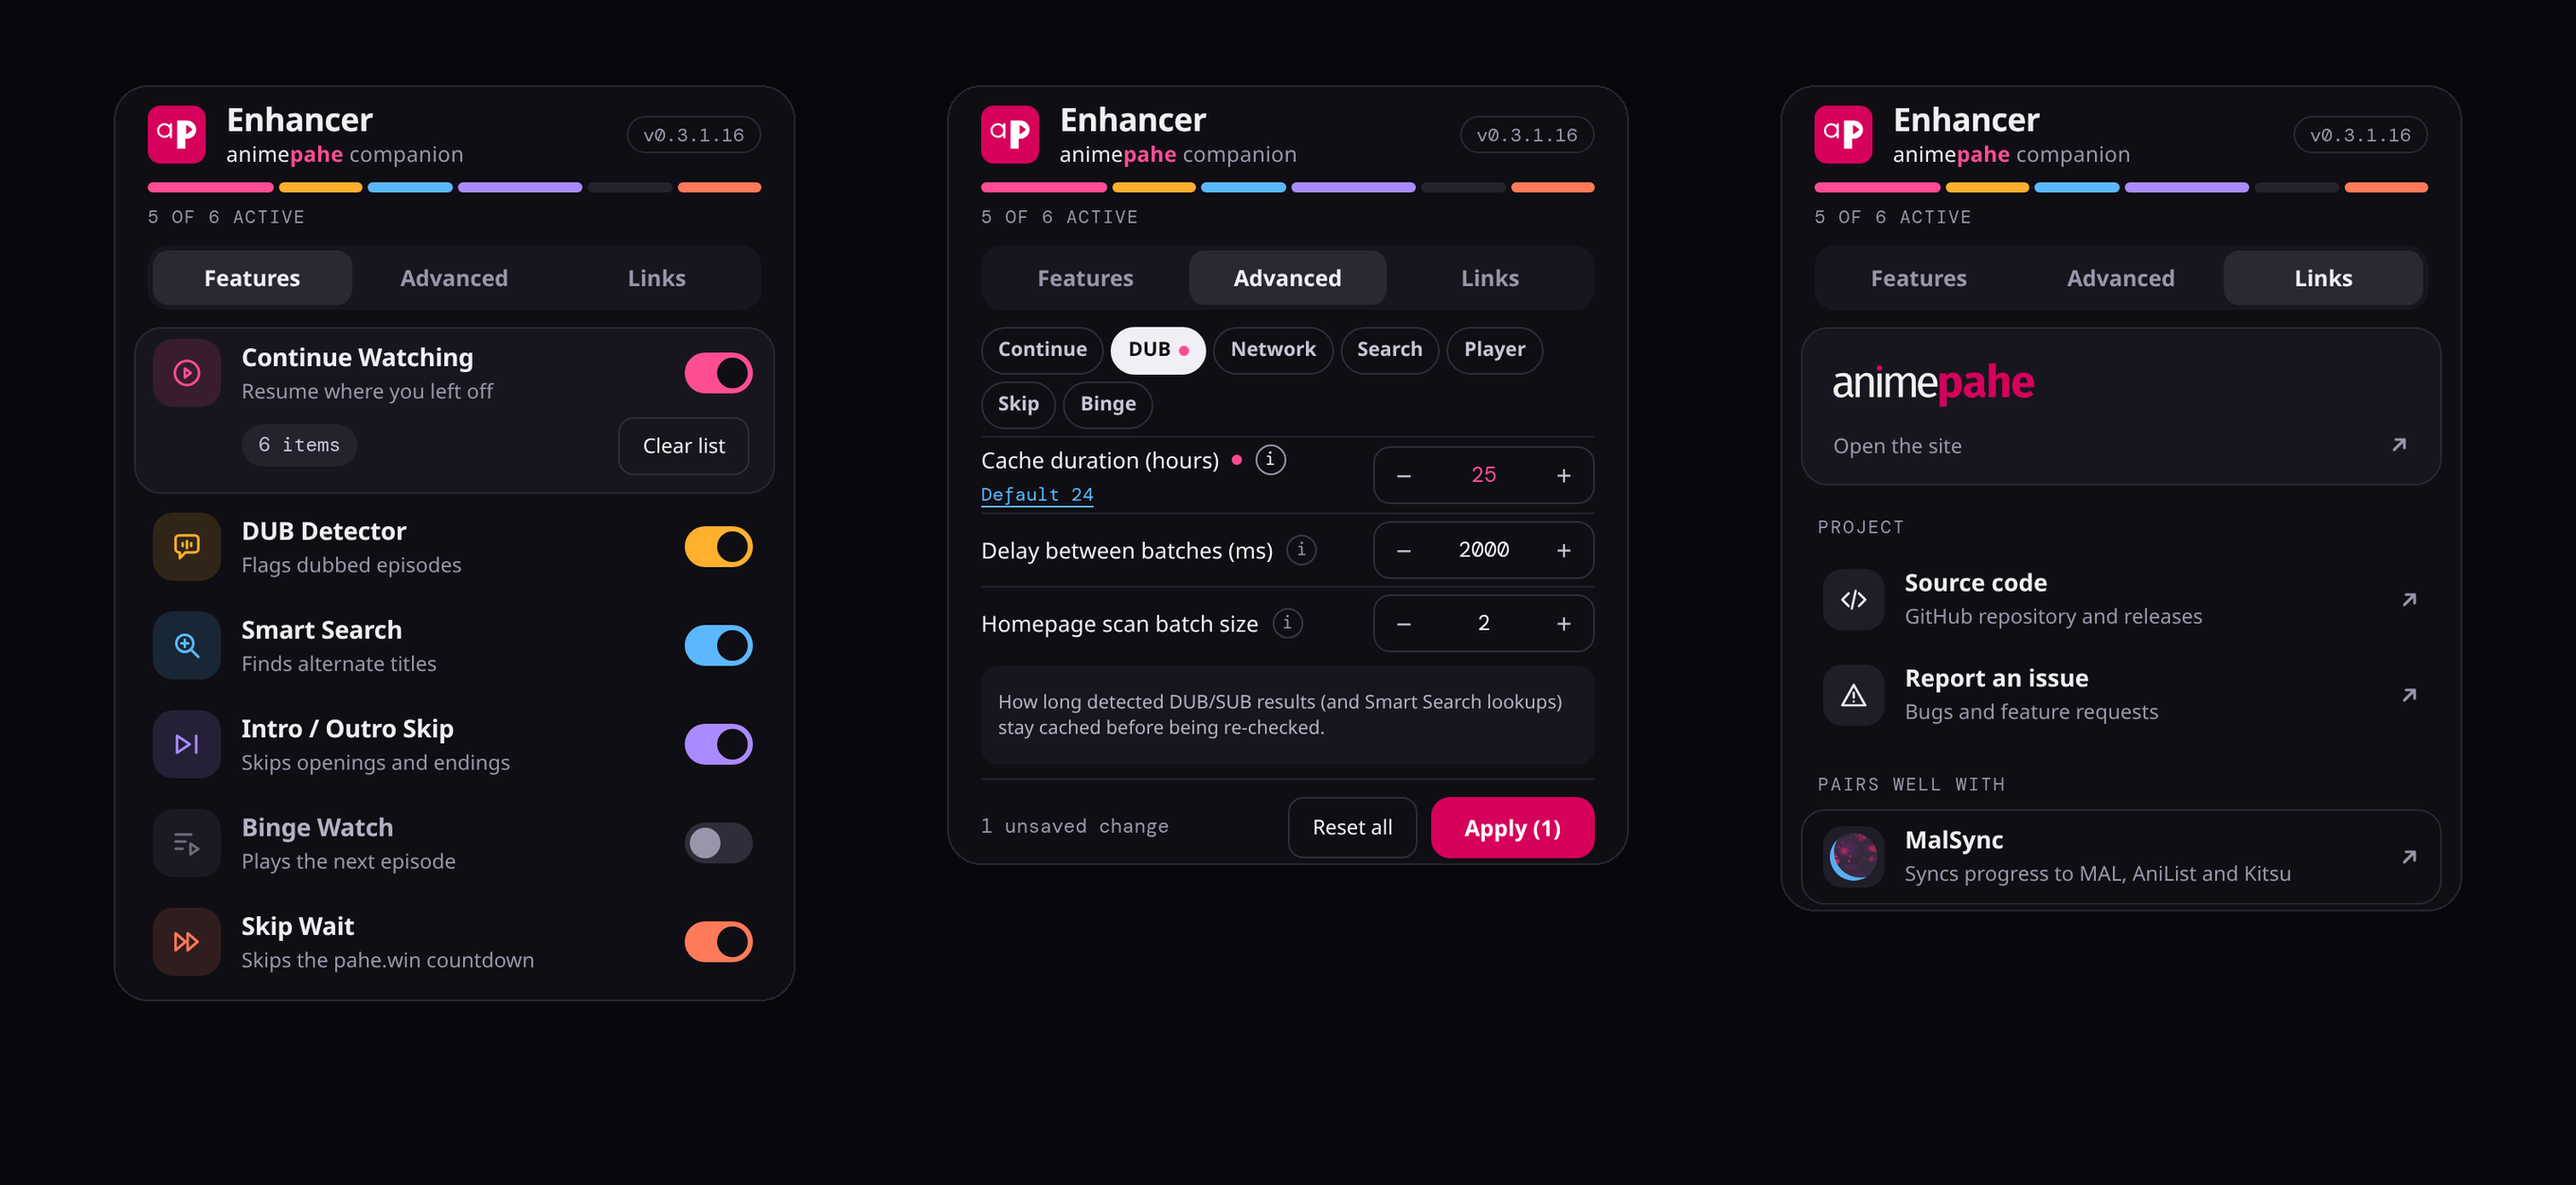
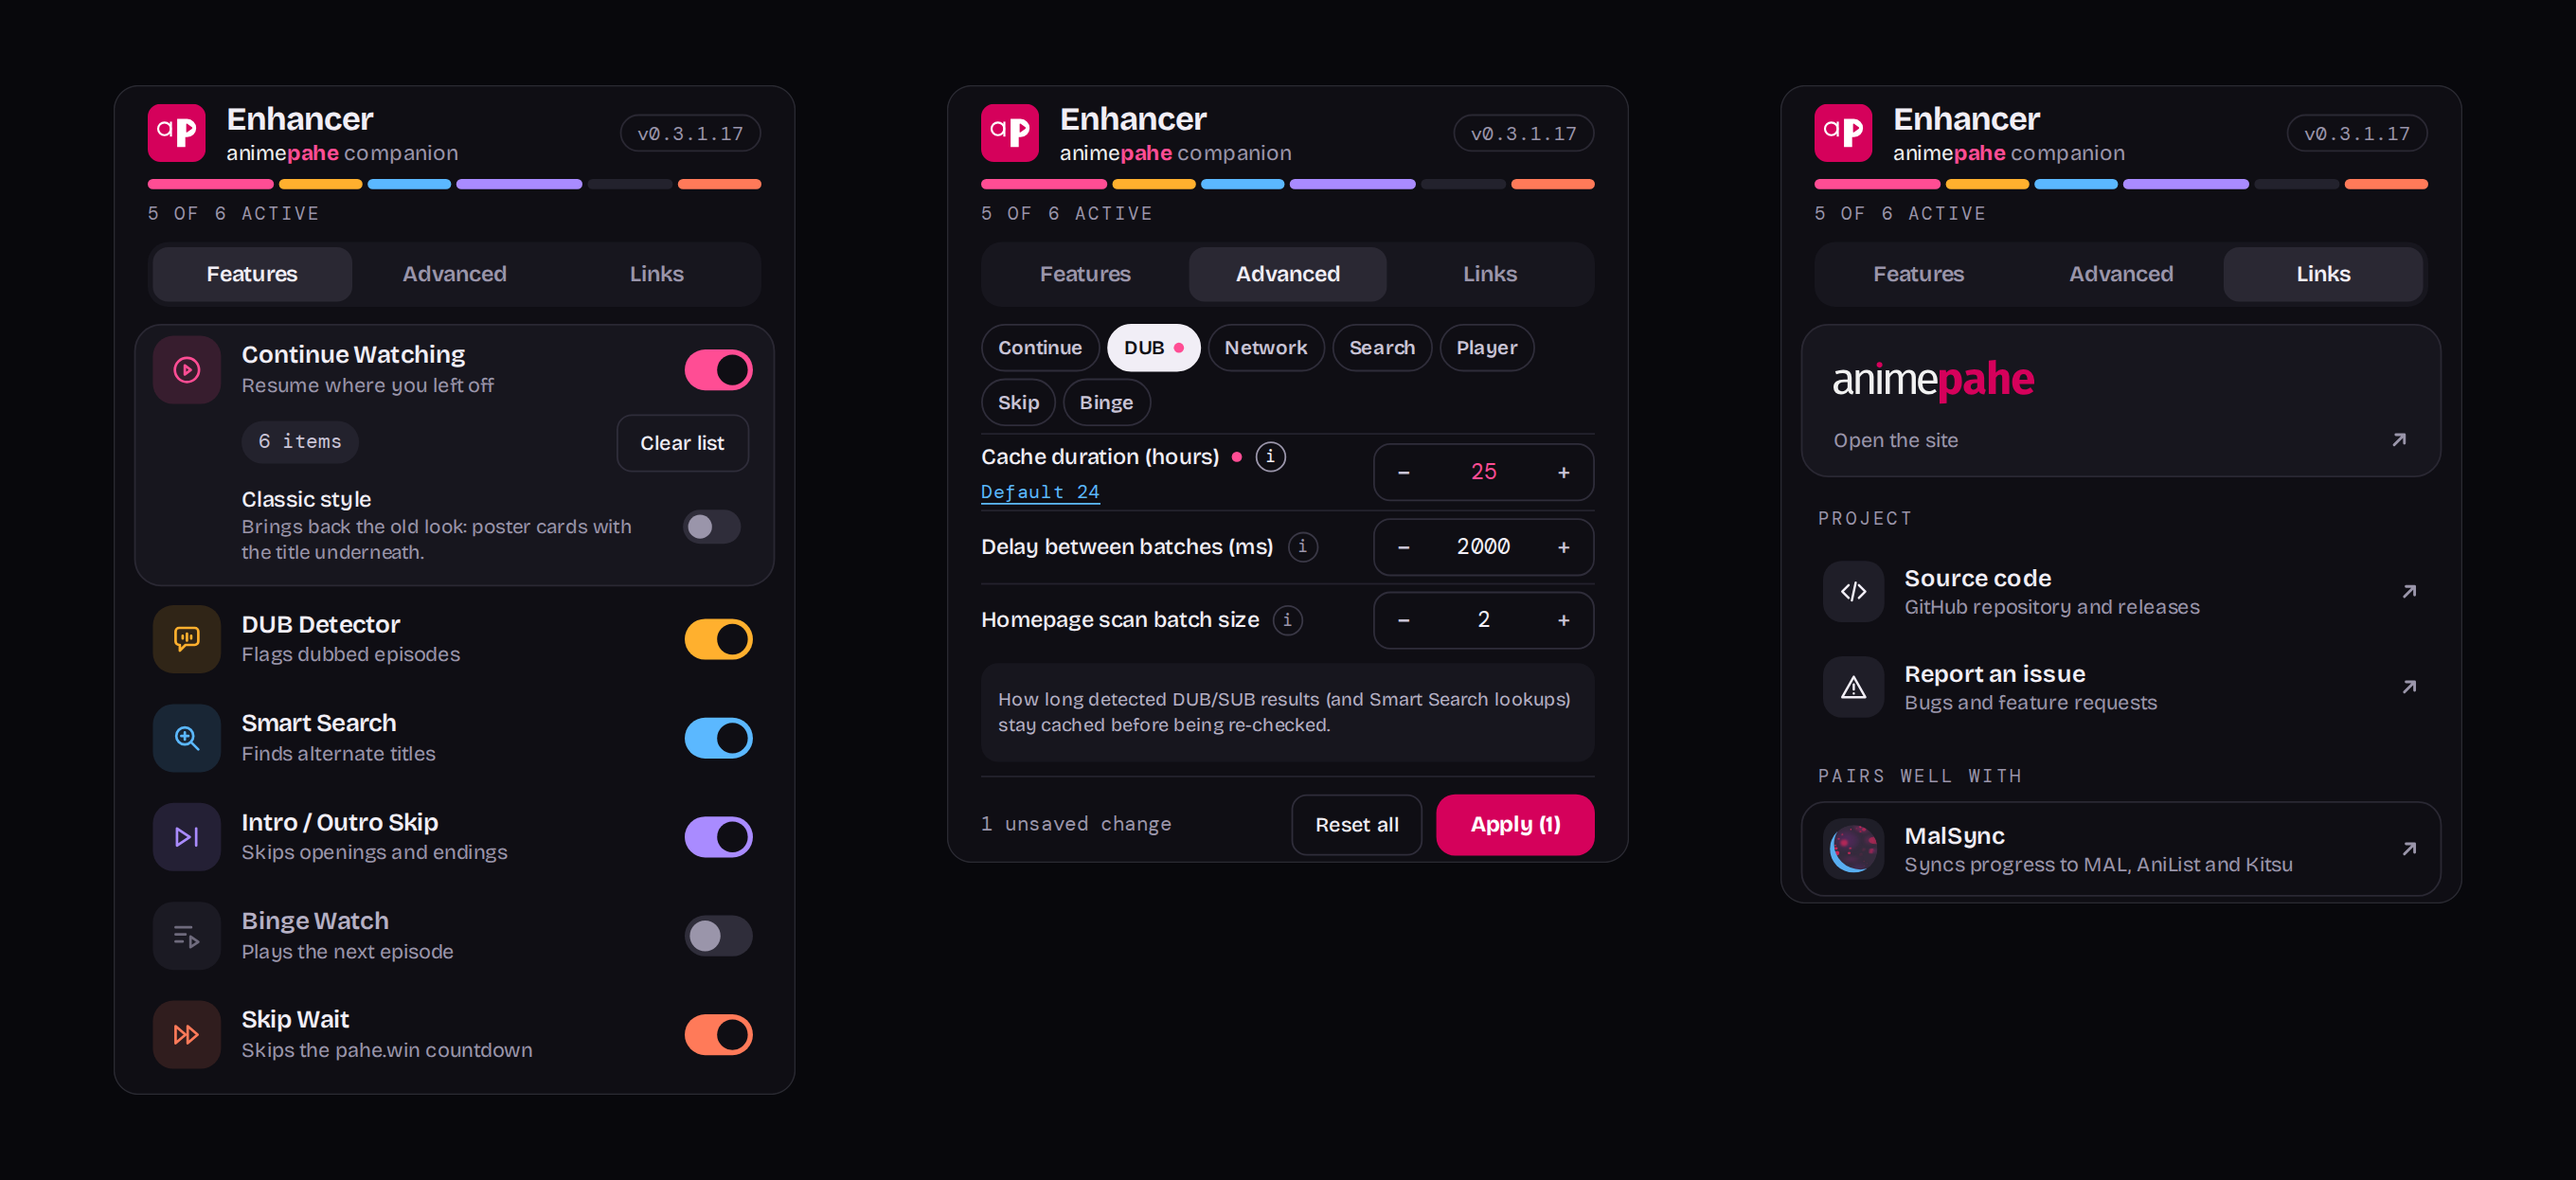
Update sc5 popup screenshot for v0.3.1.17
Retake the three-tab popup screenshot so it shows the new Classic style switch under Continue Watching and the v0.3.1.17 version badge.
Update the README alt text to match.

diff --git a/README.md b/README.md
@@ -46,7 +46,7 @@ Each feature can be turned on or off separately from the extension's popup. Sett
 <img src="screenshots/sc2.png" alt="Episode list showing the 6 of 9 dubbed summary bar, DUB and SUB ONLY badges, and status toast" width="100%" />
 <img src="screenshots/sc3.png" alt="Player page showing the inline DUB badge and English audio stream options" width="100%" />
 <img src="screenshots/sc4.png" alt="animepahe home page with the Continue Watching shelf of episode thumbnails, each with an episode number, progress bar and remove button, aligned above Latest Releases" width="100%" />
-<img src="screenshots/sc5.png" alt="The redesigned popup (v0.3.1.16), three tabs side by side: Features with Continue Watching expanded and all six features listed, Advanced with a staged change and a setting description open, and Links showing the animepahe and MalSync logos" width="100%" />
+<img src="screenshots/sc5.png" alt="The redesigned popup (v0.3.1.17), three tabs side by side: Features with Continue Watching expanded to show its Classic style switch and all six features listed, Advanced with a staged change and a setting description open, and Links showing the animepahe and MalSync logos" />
 <img src="screenshots/sc6.png" alt="Player page with the Skip Intro button and intro/outro progress bar highlights" width="100%" />
 
 <p align="right"><a href="#top">↑ Back to top</a></p>
@@ -81,12 +81,12 @@ Each feature can be turned on or off separately from the extension's popup. Sett
   <sub>Free · takes about 10 seconds · no account needed</sub>
 </p>
 
-| Browser                    | Where to get it                                                                                    | Notes                                                                                                                                        |
-| -------------------------- | -------------------------------------------------------------------------------------------------- | -------------------------------------------------------------------------------------------------------------------------------------------- |
-| **Firefox**                | [Firefox Add-ons](https://addons.mozilla.org/en-US/firefox/addon/animepahe-enhancer/)              | Ready to install right now                                                                                                                   |
-| **Chrome**                 | Chrome Web Store                                                                                   | **Release date: TBA** — not submitted yet; Chrome Web Store review has not been tested |
-| **Edge**                   | [Edge Add-ons](https://microsoftedge.microsoft.com/addons/detail/omdenhapffjpbafkliiedijooomljbgd) | Ready to install right now                                                                                                                   |
-| Any other Chromium browser | [GitHub Releases](https://github.com/abdullahkhfb/animepahe-enhancer/releases)                     | Manual install — see [docs/DEVELOPMENT.md](docs/DEVELOPMENT.md#loading-the-extension-locally)                                                |
+| Browser                    | Where to get it                                                                                    | Notes                                                                                         |
+| -------------------------- | -------------------------------------------------------------------------------------------------- | --------------------------------------------------------------------------------------------- |
+| **Firefox**                | [Firefox Add-ons](https://addons.mozilla.org/en-US/firefox/addon/animepahe-enhancer/)              | Ready to install right now                                                                    |
+| **Chrome**                 | Chrome Web Store                                                                                   | **Release date: TBA** — not submitted yet; Chrome Web Store review has not been tested        |
+| **Edge**                   | [Edge Add-ons](https://microsoftedge.microsoft.com/addons/detail/omdenhapffjpbafkliiedijooomljbgd) | Ready to install right now                                                                    |
+| Any other Chromium browser | [GitHub Releases](https://github.com/abdullahkhfb/animepahe-enhancer/releases)                     | Manual install — see [docs/DEVELOPMENT.md](docs/DEVELOPMENT.md#loading-the-extension-locally) |
 
 <p align="right"><a href="#top">↑ Back to top</a></p>
 
